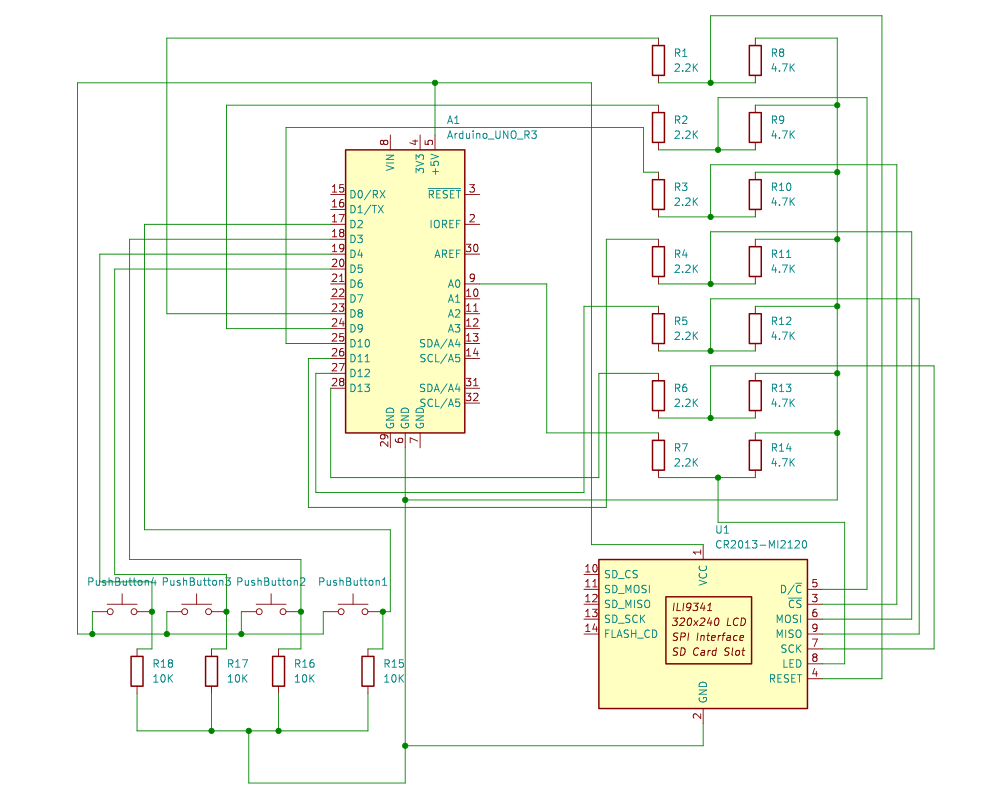
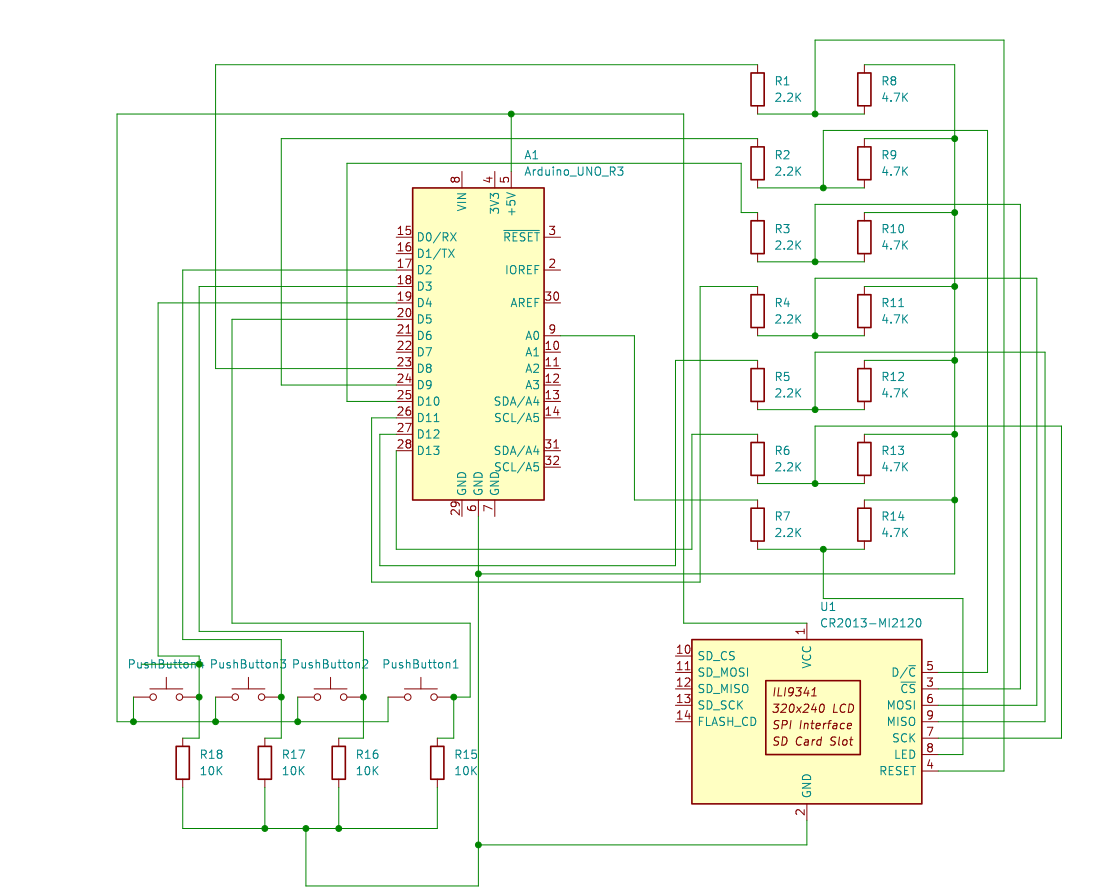
Schematic changes

Changed region(s): [[0.0933, 0.0305, 0.9639, 1.0], [0.0933, 0.122, 0.1244, 0.1525]]

diff --git a/README.md b/README.md
@@ -14,8 +14,9 @@ A port of the popular videogame Tetris on an arduino Uno
 
 - 4 - Push buttons
 
-### A simple schematic of the project
+### Schematics of the project
 ![A schematic of the project](/schematic/schematic.png)
+![A schematic of the project using fritzing](/schematic/fritzing.png)
 
 ## Software needed
 The project relies on
